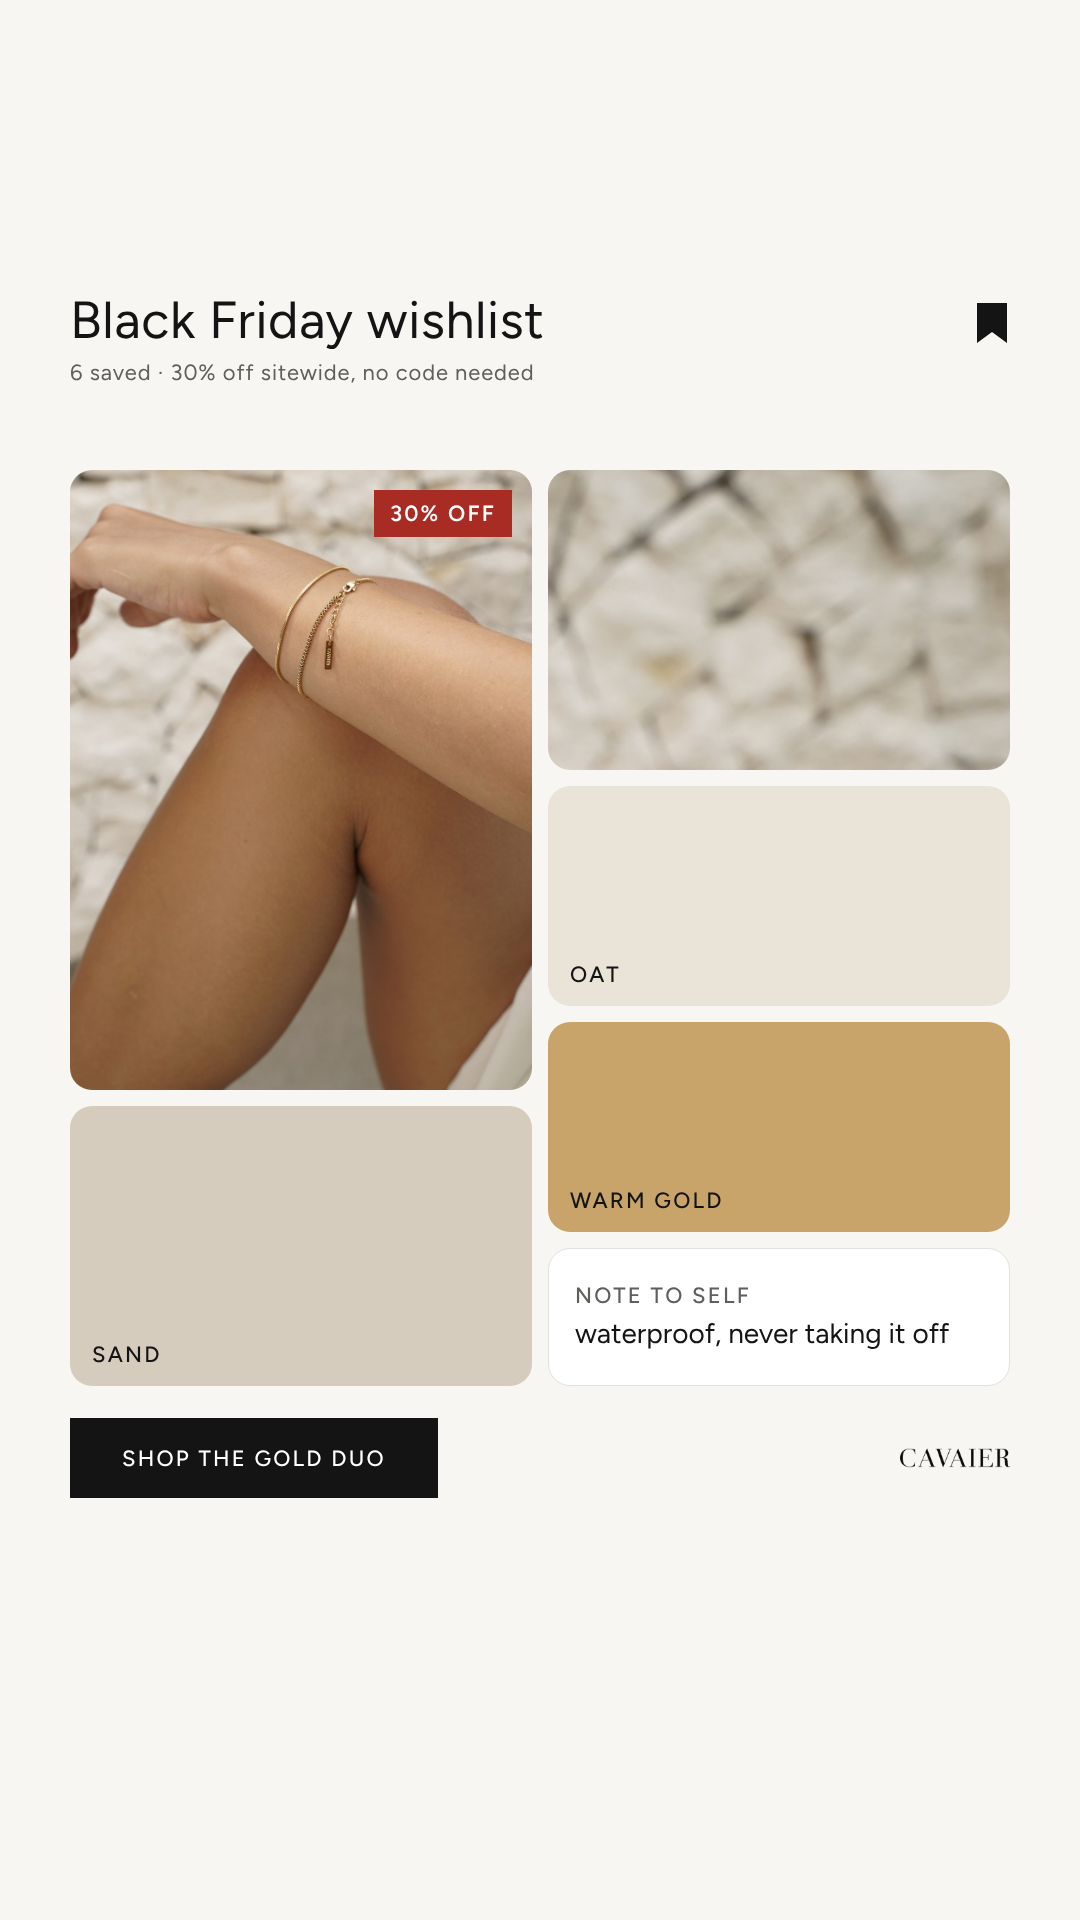
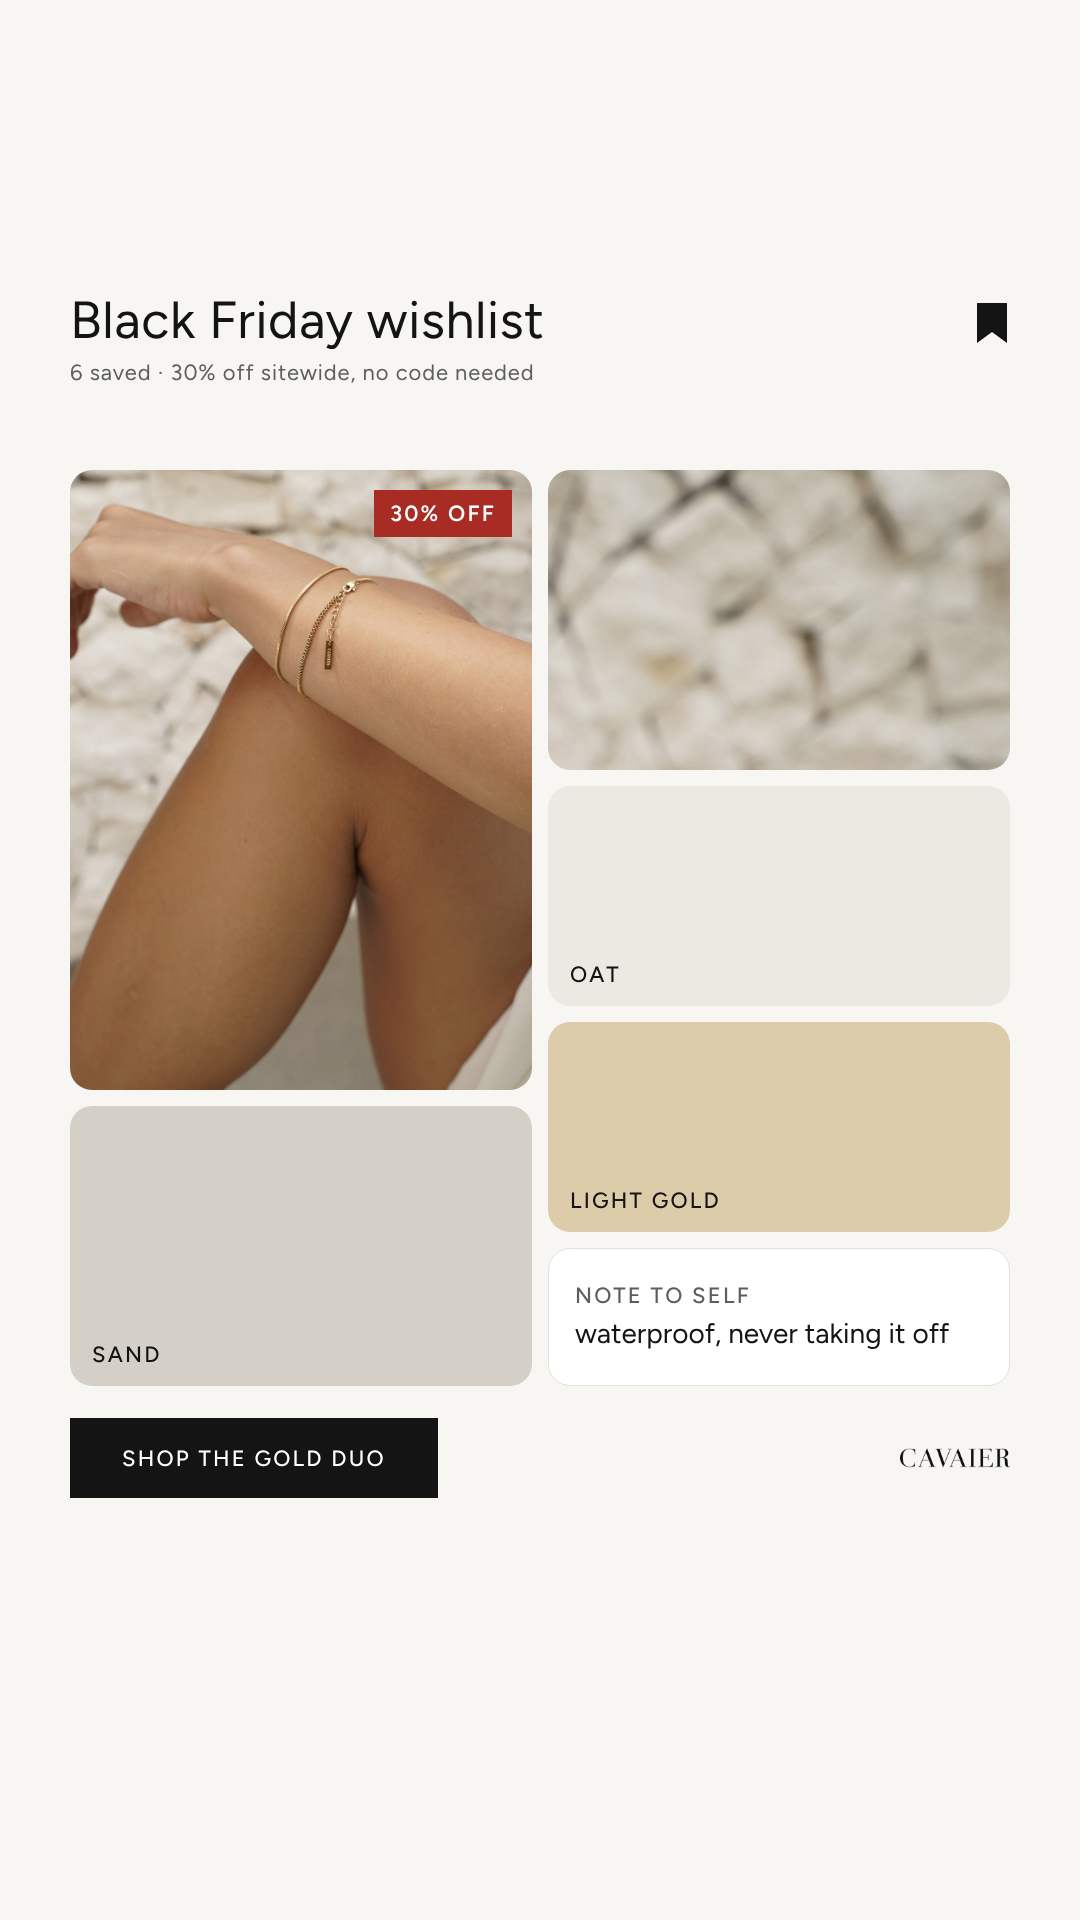
M484 C3 studio product image; W433 C2 light gold swatch; exports + canvas backup
Claude-Session: https://claude.ai/code/session_01LtGMNmy7hV4kZNsS3Vsb6Q

Changed region(s): [[0.4889, 0.5312, 0.9472, 0.6562]]

diff --git a/bfcm26/canvas/W433-C2.dc.html b/bfcm26/canvas/W433-C2.dc.html
@@ -2,7 +2,7 @@
 <html lang="en">
 <head>
 <meta charset="utf-8">
-<title>W Batch 433 - C2 · Black Friday wishlist board</title>
+<title>W Batch 433 - C2 · Black Friday wishlist board (light gold)</title>
 <script src="./support.js"></script>
 </head>
 <body>
@@ -26,7 +26,7 @@ a{color:#141414}a:hover{color:#000000}
 <a href="https://cavaier.com/products/2x-duo-minimal-set-for-her?variant=54997777088858" style="display: inline-flex; align-items: center; justify-content: center; height: 80px; padding: 0 52px; background: #141414; color: #FFFFFF; text-decoration: none; font-size: 22px; font-weight: 500; letter-spacing: 0.1em">SHOP THE GOLD DUO</a>
 <img src="/_blob/b5d78a878b48e10609c923597dd1852e" alt="Cavaier" style="width: 110px; height: auto; display: block">
 </div>
-<div style="position: absolute; top: 470px; left: 70px; width: 462px; height: 620px; border-radius: 22px; overflow: hidden"><img src="/_blob/aaf050843dc454770b40975cf71416ac" alt="The gold 2x Duo Minimal Set on a woman's wrist against a white stone wall" style="width: 100%; height: 100%; object-fit: cover; object-position: 46% 30%; display: block"><span style="position: absolute; top: 20px; right: 20px; padding: 10px 16px; background: #A82C24; color: #FFFFFF; font-size: 22px; font-weight: 600; letter-spacing: 0.1em">30% OFF</span></div><div style="position: absolute; top: 470px; left: 548px; width: 462px; height: 300px; border-radius: 22px; overflow: hidden"><img src="/_blob/ea508bc73ded8af29225457bfe37e07c" alt="White stone wall texture" style="width: 100%; height: 100%; object-fit: cover; display: block"></div><div style="position: absolute; top: 786px; left: 548px; width: 462px; height: 220px; border-radius: 22px; background: #E9E3D8; overflow: hidden"><span style="position: absolute; left: 22px; bottom: 18px; font-size: 22px; font-weight: 500; letter-spacing: 0.1em; color: #141414">OAT</span></div><div style="position: absolute; top: 1022px; left: 548px; width: 462px; height: 210px; border-radius: 22px; background: #C8A46A; overflow: hidden"><span style="position: absolute; left: 22px; bottom: 18px; font-size: 22px; font-weight: 500; letter-spacing: 0.1em; color: #141414">WARM GOLD</span></div><div style="position: absolute; top: 1106px; left: 70px; width: 462px; height: 280px; border-radius: 22px; background: #D6CCBE; overflow: hidden"><span style="position: absolute; left: 22px; bottom: 18px; font-size: 22px; font-weight: 500; letter-spacing: 0.1em; color: #141414">SAND</span></div><div style="position: absolute; top: 1248px; left: 548px; width: 462px; height: 138px; border-radius: 22px; background: #FFFFFF; border: 1px solid #E2E1DD; box-sizing: border-box; padding: 24px 26px; display: flex; flex-direction: column; justify-content: center; gap: 6px"><span style="font-size: 22px; font-weight: 500; letter-spacing: 0.1em; color: #5E5E5B">NOTE TO SELF</span><span style="font-size: 28px; font-weight: 400; line-height: 1.3">waterproof, never taking it off</span></div>
+<div style="position: absolute; top: 470px; left: 70px; width: 462px; height: 620px; border-radius: 22px; overflow: hidden"><img src="/_blob/aaf050843dc454770b40975cf71416ac" alt="The gold 2x Duo Minimal Set on a woman's wrist against a white stone wall" style="width: 100%; height: 100%; object-fit: cover; object-position: 46% 30%; display: block"><span style="position: absolute; top: 20px; right: 20px; padding: 10px 16px; background: #A82C24; color: #FFFFFF; font-size: 22px; font-weight: 600; letter-spacing: 0.1em">30% OFF</span></div><div style="position: absolute; top: 470px; left: 548px; width: 462px; height: 300px; border-radius: 22px; overflow: hidden"><img src="/_blob/ea508bc73ded8af29225457bfe37e07c" alt="White stone wall texture" style="width: 100%; height: 100%; object-fit: cover; display: block"></div><div style="position: absolute; top: 786px; left: 548px; width: 462px; height: 220px; border-radius: 22px; background: #ECE9E3; overflow: hidden"><span style="position: absolute; left: 22px; bottom: 18px; font-size: 22px; font-weight: 500; letter-spacing: 0.1em; color: #141414">OAT</span></div><div style="position: absolute; top: 1022px; left: 548px; width: 462px; height: 210px; border-radius: 22px; background: #DDCCAA; overflow: hidden"><span style="position: absolute; left: 22px; bottom: 18px; font-size: 22px; font-weight: 500; letter-spacing: 0.1em; color: #141414">LIGHT GOLD</span></div><div style="position: absolute; top: 1106px; left: 70px; width: 462px; height: 280px; border-radius: 22px; background: #D5D0C7; overflow: hidden"><span style="position: absolute; left: 22px; bottom: 18px; font-size: 22px; font-weight: 500; letter-spacing: 0.1em; color: #141414">SAND</span></div><div style="position: absolute; top: 1248px; left: 548px; width: 462px; height: 138px; border-radius: 22px; background: #FFFFFF; border: 1px solid #E2E1DD; box-sizing: border-box; padding: 24px 26px; display: flex; flex-direction: column; justify-content: center; gap: 6px"><span style="font-size: 22px; font-weight: 500; letter-spacing: 0.1em; color: #5E5E5B">NOTE TO SELF</span><span style="font-size: 28px; font-weight: 400; line-height: 1.3">waterproof, never taking it off</span></div>
 </div>
 </x-dc>
 <script type="text/x-dc" data-dc-script data-props='{"$preview":{"width":1080,"height":1920}}'>

diff --git a/bfcm26/canvas/M484-C3.dc.html b/bfcm26/canvas/M484-C3.dc.html
@@ -2,7 +2,7 @@
 <html lang="en">
 <head>
 <meta charset="utf-8">
-<title>M Batch 484 - C3 · Search results</title>
+<title>M Batch 484 - C3 · Search results (studio product image)</title>
 <script src="./support.js"></script>
 </head>
 <body>
@@ -15,7 +15,7 @@ a{color:#141414}a:hover{color:#000000}
 </style>
 </helmet>
 <div style="width: 1080px; height: 1920px; position: relative; overflow: hidden; background: #FAFAF8; font-family: Figtree, sans-serif; color: #141414">
-<div style="position: absolute; top: 548px; left: 48px; width: 984px; height: 600px; border: 1.5px solid #D6D6D2; background: #FFFFFF; box-sizing: border-box"></div><img src="/_blob/69f5741d92fb6051f35e7ba710468060" alt="The silver 2x Duo Minimal Set on a man's crossed arms in the sun" style="position: absolute; top: 548px; left: 48px; width: 400px; height: 600px; object-fit: cover; object-position: 50% 50%; display: block"><div style="position: absolute; top: 1170px; left: 48px; width: 984px; height: 112px; border: 1.5px solid #E3E3DF; background: #FFFFFF; opacity: 0.9">
+<div style="position: absolute; top: 548px; left: 48px; width: 984px; height: 600px; border: 1.5px solid #D6D6D2; background: #FFFFFF; box-sizing: border-box"></div><img src="/_blob/402f32c71cc6c15b71ca04ddeb32b983" alt="Close-up of the silver 2x Duo Minimal Set on a man's wrist" style="position: absolute; top: 548px; left: 48px; width: 400px; height: 600px; object-fit: cover; object-position: 50% 50%; display: block"><div style="position: absolute; top: 1170px; left: 48px; width: 984px; height: 112px; border: 1.5px solid #E3E3DF; background: #FFFFFF; opacity: 0.9">
 <div style="position: absolute; top: 15px; left: 15px; width: 82px; height: 82px; background: #ECECE8"></div>
 <div style="position: absolute; top: 24px; left: 124px; width: 260px; height: 12px; background: #E6E6E2"></div>
 <div style="position: absolute; top: 50px; left: 124px; width: 560px; height: 18px; background: #DEDEDA"></div>
